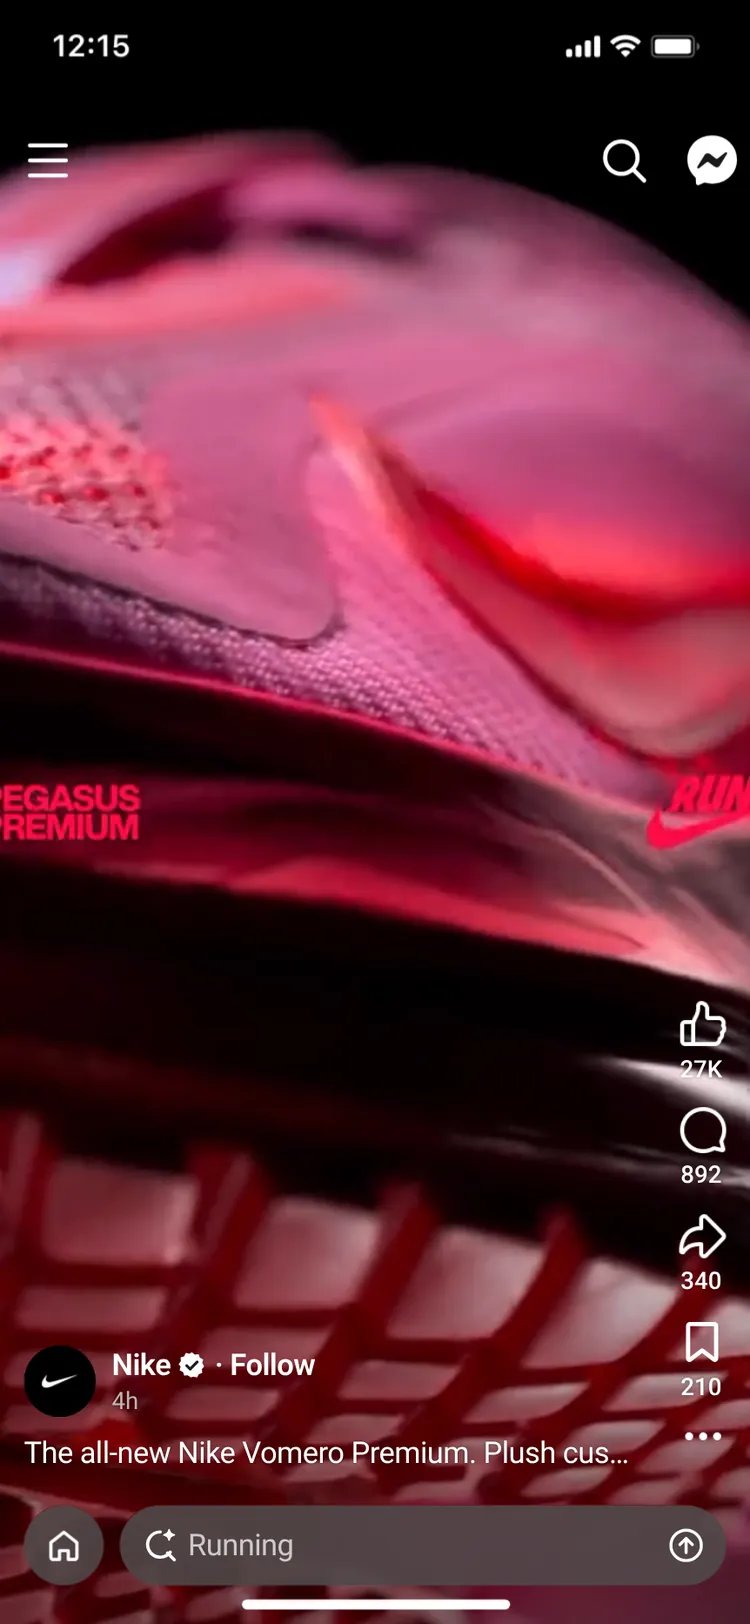
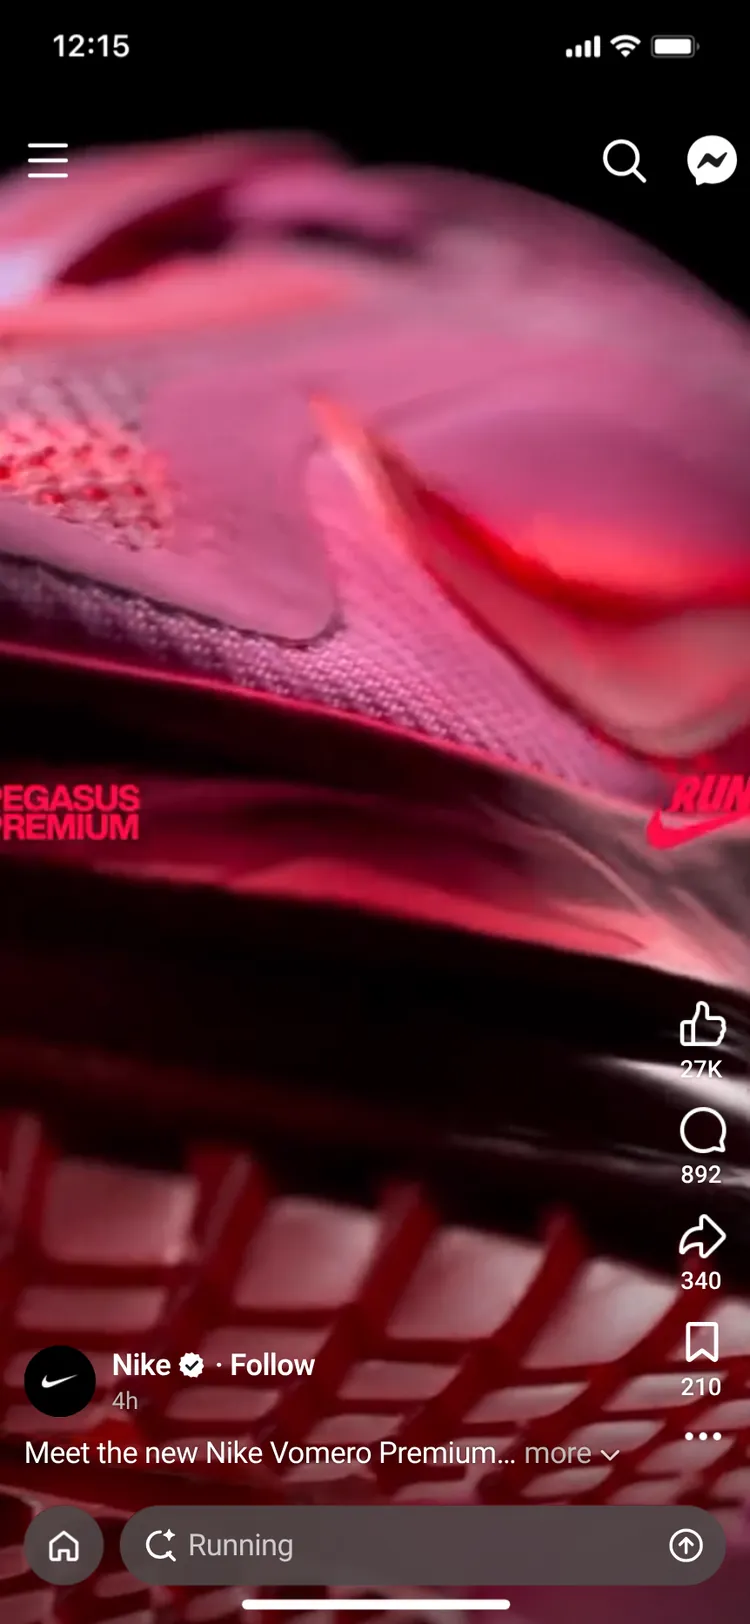
CC proto: Sponsored label, one commerce-card recipe, VAC caption on every reel (v238)
- Brand rows: 'Sponsored' under the name (was 'Ad'), as MAC/SAP since v230
- Commerce cards (reel 303x56, comments sheet 351x56): even 8pt inset, 40px square
  thumbnail with concentric r4, text at x60 / 8 right, 600 15/20 over 400 13/20,
  group centred on the 8pt grid; p margins reset (text sat low); sheet button 40 tall r4
- Laura thumbnail re-cropped from her video (face, scarf, coat) at 120px
- Seed and creator captions now use the shared VAC caption (caption.js/vac-caption.js):
  every caption ends '… more ⌄'; copy tuned so the arrow box ends 4.1-4.5pt inside the CTA edge
- Comments title margin reset; skeleton rows follow the 56 card; poster regenerated

Changed region(s): [[0.0307, 0.8621, 0.828, 0.9236]]

diff --git a/preview/cc-proto/index.html b/preview/cc-proto/index.html
@@ -65,8 +65,9 @@ video{display:block;object-fit:cover}
 .ufi>img,.ufi>svg{display:block;width:24px;height:24px;margin:0 auto 3px}
 /* the details: the shared layout (preview/shared/caption/caption.css .c-stack, as MAC and SAP), its bottom 16pt above the nav
    (--c-bottom 76: the CTA 692–736, the nav 752). Inside it, from the author row (612): avatar 36 + name ✓ · Follow (20px line) and
-   "Ad" under the name (the shared .c-sp line: 12/16, white 70%; never "Sponsored", no Ad pill), the VAC caption at +48 (660, "… more ⌄",
-   js/vac-caption.js), the CTA at +80 (303×44, r12). Creator posts: "· Following" and the post's age under the name, the caption, and the
+   "Sponsored" under the name (the shared .c-sp line: 12/16, white 70%, as MAC and SAP since v230; no Ad pill), the VAC caption at +48
+   (660; every caption, the Nike seed's and the creator posts' too: cut on whole glyphs, "… more ⌄", the arrow ending ≤ x 311, 4pt inside
+   the CTA's right edge: js/vac-caption.js via caption.js), the CTA at +80 (303×44, r12). Creator posts: "· Following" and the post's age under the name, the caption, and the
    commerce card (56) at +80 (680–736). The Nike seed: name / 4h and its caption only (author 672, caption 716) */
 .phone .c-stack{--c-bottom:76px}
 .c-stack.cc-org{height:136px}
@@ -74,14 +75,16 @@ video{display:block;object-fit:cover}
 .c-stack>.cav{left:0;top:0;width:36px;height:36px;border-radius:50%;background:#fff 50% 50%/cover no-repeat}
 .c-stack>.cn{left:44px;top:0;display:flex;align-items:center;height:20px;white-space:nowrap;font:600 15px/20px var(--sf);letter-spacing:-.24px;color:#fff;text-shadow:0 0 1px rgba(0,0,0,.3);-webkit-font-smoothing:antialiased}
 .cn svg{flex:none;width:14px;height:14px;margin:0 4px}
-.c-stack>.ocap{left:0;top:48px;width:303px;font:400 15px/20px var(--sf);letter-spacing:-.24px;white-space:nowrap;overflow:hidden;text-shadow:0 0 1px rgba(0,0,0,.62);-webkit-font-smoothing:antialiased}
-.cc-seed>.ocap{top:44px;text-overflow:ellipsis}
-.ocap span{color:rgba(255,255,255,.8)}
+.c-stack.cc-seed>.c-cap{top:44px}
 .c-stack>.cta{left:0;top:80px;width:303px;height:44px;border-radius:12px;font:600 15px/44px var(--sf);letter-spacing:-.24px;text-align:center;color:#fff;overflow:hidden}
 .c-stack>.card{left:0;top:80px;width:303px;height:56px;border-radius:12px}
-.card .th{position:absolute;left:8px;top:8px;width:40px;height:40px;border-radius:8px;background:#333 50% 50%/cover no-repeat}
-.card .t{position:absolute;left:56px;top:8px;right:16px;font:600 15px/20px var(--sf);letter-spacing:-.24px;white-space:nowrap;overflow:hidden;text-overflow:ellipsis}
-.card .u{position:absolute;left:56px;top:28px;font:400 13px/20px var(--sf);letter-spacing:-.08px;color:rgba(255,255,255,.72);white-space:nowrap}
+/* the commerce cards (the reel's, 303×56, and the comments sheet's, 351×56): one recipe. An even 8pt inset on all four sides; the
+   thumbnail 40×40, square, its radius concentric with the card's (12 − 8 = 4, squircled by js/squircle.js); the text 12 after it (x 60)
+   and 8 from the right edge (ellipsis, never clipped mid-glyph); title 600 15/20 over the action line 400 13/20, a 40pt group centred in
+   the 56 (top 8, bottom 8: on the 8pt grid); a button inside a card shares the inset and the concentric radius (40 tall, r4) */
+.card .th,.pc .pth{position:absolute;left:8px;top:8px;width:40px;height:40px;border-radius:4px;background:#333 50% 50%/cover no-repeat}
+.card .t,.pc .pt{position:absolute;margin:0;left:60px;top:8px;right:8px;font:600 15px/20px var(--sf);letter-spacing:-.24px;white-space:nowrap;overflow:hidden;text-overflow:ellipsis}
+.card .u,.pc .pu{position:absolute;margin:0;left:60px;top:28px;right:8px;font:400 13px/20px var(--sf);letter-spacing:-.08px;color:rgba(255,255,255,.72);white-space:nowrap;overflow:hidden;text-overflow:ellipsis}
 /* the material: a 25px backdrop blur under #252525 at 55% with a #9C9C9C overlay (SAP's For you pill, Figma) */
 .mat{background:rgba(37,37,37,.55);-webkit-backdrop-filter:blur(25px);backdrop-filter:blur(25px);overflow:hidden;isolation:isolate}
 .mat::before{content:'';position:absolute;inset:0;background:#9c9c9c;mix-blend-mode:overlay;opacity:.55;border-radius:inherit;pointer-events:none}
@@ -116,14 +119,14 @@ video{display:block;object-fit:cover}
 .csheet>*,.store>*{position:absolute}
 .csheet,.store{pointer-events:none}   /* the touch layer under them takes every gesture (hit rects in s3) */
 .csheet .grab{left:169.5px;top:8px;width:36px;height:4px;border-radius:2px;background:#ccd0d5}
-.csheet .ttl{left:0;top:20px;width:375px;text-align:center;font:600 17px/22px var(--sf)}
+.csheet .ttl{margin:0;left:0;top:20px;width:375px;text-align:center;font:600 17px/22px var(--sf)}
 .csheet .ttl span{color:#65676b;font-weight:400}
-.csheet .pc{left:12px;top:56px;width:351px;height:64px;border-radius:12px;background:#f0f2f5}
+.csheet .pc{left:12px;top:56px;width:351px;height:56px;border-radius:12px;background:#f0f2f5}
 .pc>*{position:absolute}
-.pc .pth{left:12px;top:12px;width:40px;height:40px;border-radius:8px;background:#fff 50% 50%/cover no-repeat}
-.pc .pt{left:64px;top:12px;font:600 15px/20px var(--sf)}
-.pc .pu{left:64px;top:32px;font:400 13px/20px var(--sf);color:#65676b}
-.pc .pb{right:12px;top:14px;height:36px;padding:0 16px;border-radius:10px;background:#5f3d8f;color:#fff;font:600 15px/36px var(--sf)}
+.pc .pth{background-color:#000}
+.pc .pt,.pc .pu{right:128px}
+.pc .pu{color:#65676b}
+.pc .pb{right:8px;margin:0;top:8px;height:40px;padding:0 16px;border-radius:4px;background:#5f3d8f;color:#fff;font:600 15px/40px var(--sf);letter-spacing:-.24px}
 .sk{border-radius:6px;background:#f0f2f5}
 .sk.a{border-radius:18px;background:#e4e6eb}
 .sk.n{background:#e4e6eb}
@@ -217,19 +220,19 @@ function fit(){
 new ResizeObserver(fit).observe(frame);fit();
 
 /* ---------- the reels (copy and metrics: the approved CC mock, /workspace/cc/mock; Figma XYE8LCJVe0rHhnEB5DA18A, flow 140796:4871) ----------
-   kind: seed (the Nike reel the chain starts from) · ad (avatar, name ✓ · Follow, "Ad", caption, CTA) · org (a creator post: · Following,
+   kind: seed (the Nike reel the chain starts from) · ad (avatar, name ✓ · Follow, "Sponsored", caption, CTA) · org (a creator post: · Following,
    its age, caption, commerce card). pill: the bottom bar's query for that reel (Nespresso's is the entry: "Explore more like this") */
 const R={
-  nike:{kind:'seed',name:'Nike',sub:'4h',cap:'The all-new Nike Vomero Premium. Plush cushioning for every mile.',pill:'Running',ufi:['27K','892','340','210']},
-  nesp:{kind:'ad',name:'Nespresso',cap:'Sip your way through spring with our indulgent iced coffee recipes.',cta:'#5f3d8f',pill:'Explore more like this',icon:'explore',ufi:['1.3K','1.5K','107','86']},
-  bb:{kind:'ad',name:'Blue Bottle Coffee',cap:'Ceremonial-grade craft matcha, only from Blue Bottle.',cta:'#1f6cb0',pill:'Matcha Latte',ufi:['2.4K','312','96','140']},
-  sbux:{kind:'ad',name:'Starbucks',cap:'Your new summer drink just dropped. Order ahead in the app.',cta:'#00573f',ctaText:'Order now',pill:'Summer drinks',ufi:['8.9K','1.1K','402','615']},
-  lc:{kind:'ad',name:'La Colombe Coffee',cap:'Because draft is always the right choice. Meet the Strawberry Mocha Draft Latte.',cta:'#d9475f',pill:'Iced coffee',ufi:['1.8K','204','77','131']},
-  cb2:{kind:'ad',name:'CB2',cap:'Watch your home collection unfold in every room.',cta:'#b5552a',pill:'Furniture',ufi:['964','58','31','112']},
-  univ:{kind:'org',name:'Universal Studios',ago:'5 hours ago',cap:'Join Mario on a cosmic adventure!',ct:'The Super Mario Galaxy Movie',cu:'View Storefront',store:1,pill:'Mario & Luigi',ufi:['41K','2.3K','5.6K','3.1K']},
-  laura:{kind:'org',name:'Laura Byrnes',ago:'6 hours ago',cap:'When I don’t know what to wear....',ct:'Quiet Luxury Cashmere',cu:'Shop this look',pill:'Fit check',ufi:['12K','486','210','1.9K']},
-  serena:{kind:'org',name:'xzmserena',ago:'3 hours ago',cap:'Discover your next beauty must-haves!',ct:'Minimalist Makeup',cu:'Shop this look',pill:'Makeup tutorial',ufi:['7.2K','318','95','1.2K']},
-  aden:{kind:'org',name:'Aden Wang',ago:'2 hours ago',cap:'Look who I’m featuring in my prototype.....',ct:'Aden’s Tidy Home',cu:'View Storefront',pill:'Studio Display XDR',ufi:['3.4K','129','44','508']}};
+  nike:{kind:'seed',name:'Nike',sub:'4h',cap:'Meet the new Nike Vomero Premium, with plush cushioning for every mile.',pill:'Running',ufi:['27K','892','340','210']},
+  nesp:{kind:'ad',name:'Nespresso',cap:'Sip through spring with our indulgent iced coffee recipes.',cta:'#5f3d8f',pill:'Explore more like this',icon:'explore',ufi:['1.3K','1.5K','107','86']},
+  bb:{kind:'ad',name:'Blue Bottle Coffee',cap:'Ceremonial-grade craft matcha, whisked to order at Blue Bottle.',cta:'#1f6cb0',pill:'Matcha Latte',ufi:['2.4K','312','96','140']},
+  sbux:{kind:'ad',name:'Starbucks',cap:'This summer\u2019s new drink just dropped. Order ahead in the Starbucks app.',cta:'#00573f',ctaText:'Order now',pill:'Summer drinks',ufi:['8.9K','1.1K','402','615']},
+  lc:{kind:'ad',name:'La Colombe Coffee',cap:'Because a draft is always the right move. Meet the Strawberry Mocha Draft Latte.',cta:'#d9475f',pill:'Iced coffee',ufi:['1.8K','204','77','131']},
+  cb2:{kind:'ad',name:'CB2',cap:'See the new home collection unfold in every room.',cta:'#b5552a',pill:'Furniture',ufi:['964','58','31','112']},
+  univ:{kind:'org',name:'Universal Studios',ago:'5 hours ago',cap:'Join Mario on an epic cosmic adventure, now playing in theaters.',ct:'The Super Mario Galaxy Movie',cu:'View Storefront',store:1,pill:'Mario & Luigi',ufi:['41K','2.3K','5.6K','3.1K']},
+  laura:{kind:'org',name:'Laura Byrnes',ago:'6 hours ago',cap:'When I don\u2019t know what to wear, I fall back on a camel cashmere coat.',ct:'Quiet Luxury Cashmere',cu:'Shop this look',pill:'Fit check',ufi:['12K','486','210','1.9K']},
+  serena:{kind:'org',name:'xzmserena',ago:'3 hours ago',cap:'Discover your next beauty must-haves for a fresh, minimal look.',ct:'Minimalist Makeup',cu:'Shop this look',pill:'Makeup tutorial',ufi:['7.2K','318','95','1.2K']},
+  aden:{kind:'org',name:'Aden Wang',ago:'2 hours ago',cap:'Guess who I\u2019m featuring in my prototype! Tidy desk, happy aloe.',ct:'Aden’s Tidy Home',cu:'View Storefront',pill:'Studio Display XDR',ufi:['3.4K','129','44','508']}};
 const TABS=['Coffee','Home','Movie','Fashion','Beauty','Tech'],CATS=[['bb','sbux','lc'],['cb2'],['univ'],['laura'],['serena'],['aden']];
 const FIRST=[0,0,1,2,2,2];   // the tab row's scroll per category: the first tab showing after the chevron (Coffee/Home 0, Movie 1, the rest 2)
 const ICO={
@@ -247,9 +250,9 @@ function page(id){
   d.ufi.forEach((n,i)=>{h+=`<div class="ufi" style="top:${499+i*53}px">${ic[i]}${esc(n)}</div>`});
   h+=`<div class="ufi" style="top:705px"><img alt="" src="assets/u-dots.webp${V}"></div>`;
   const row=(f,sub)=>`<i class="cav" style="background-image:url(assets/av-${id}.webp${V})"></i><p class="cn">${esc(d.name)}${BADGE}${f}</p><p class="c-sp">${esc(sub)}</p>`;
-  if(d.kind==='ad')h+=`<div class="c-stack">${row('· Follow','Ad')}<p class="c-cap">${esc(d.cap)}</p><div class="cta" style="background:${d.cta}">${esc(d.ctaText||'Learn more')}<i class="press"></i></div></div>`;
-  else if(d.kind==='org')h+=`<div class="c-stack cc-org">${row('· Following',d.ago)}<p class="ocap">${esc(d.cap)} <span>more</span></p><div class="card mat"><i class="th" style="background-image:url(assets/th-${id}.webp${V})"></i><p class="t">${esc(d.ct)}</p><p class="u">${esc(d.cu)}</p><i class="press"></i></div></div>`;
-  else h+=`<div class="c-stack cc-seed">${row('· Follow',d.sub)}<p class="ocap">${esc(d.cap)}</p></div>`;
+  if(d.kind==='ad')h+=`<div class="c-stack">${row('· Follow','Sponsored')}<p class="c-cap">${esc(d.cap)}</p><div class="cta" style="background:${d.cta}">${esc(d.ctaText||'Learn more')}<i class="press"></i></div></div>`;
+  else if(d.kind==='org')h+=`<div class="c-stack cc-org">${row('· Following',d.ago)}<p class="c-cap">${esc(d.cap)}</p><div class="card mat"><i class="th" style="background-image:url(assets/th-${id}.webp${V})"></i><p class="t">${esc(d.ct)}</p><p class="u">${esc(d.cu)}</p><i class="press"></i></div></div>`;
+  else h+=`<div class="c-stack cc-seed">${row('· Follow',d.sub)}<p class="c-cap">${esc(d.cap)}</p></div>`;
   p.innerHTML=h;return p}
 const PG={},VID={};
 ['nike','nesp'].forEach(id=>{const p=page(id);$('feed').appendChild(p);PG[id]=p});
@@ -259,7 +262,7 @@ $('ribbon').innerHTML=TABS.map(t=>`<span class="tab">${t}</span>`).join('');
 const TABEL=[...$('ribbon').children];
 /* comments: the dim, the sheet, the ad's product card, placeholder rows */
 (function(){let h='<i class="grab"></i><p class="ttl">Comments <span>20</span></p><div class="pc"><i class="pth" style="background-image:url(assets/av-nesp.webp'+V+')"></i><p class="pt">Firenze Arpeggio</p><p class="pu">nespresso.com</p><p class="pb">Learn more</p></div>';
-  for(let i=0;i<6;i++){const y=140+i*64;h+=`<i class="sk a" style="left:12px;top:${y}px;width:36px;height:36px"></i><i class="sk n" style="left:56px;top:${y+2}px;width:${90+((i*37)%60)}px;height:12px"></i><i class="sk" style="left:56px;top:${y+20}px;width:${180+((i*53)%110)}px;height:12px"></i>`}
+  for(let i=0;i<6;i++){const y=136+i*64;h+=`<i class="sk a" style="left:12px;top:${y}px;width:36px;height:36px"></i><i class="sk n" style="left:56px;top:${y+2}px;width:${90+((i*37)%60)}px;height:12px"></i><i class="sk" style="left:56px;top:${y+20}px;width:${180+((i*53)%110)}px;height:12px"></i>`}
   $('csheet').innerHTML=h})();
 /* the storefront: Universal's "View Storefront" (Figma 07b): the product slots are placeholders, as in Figma */
 (function(){const IMG='<svg viewBox="0 0 24 24" fill="none"><rect x="3" y="4" width="18" height="16" rx="3" stroke="#bcc0c4" stroke-width="1.6"/><circle cx="9" cy="9.5" r="1.8" fill="#bcc0c4"/><path d="m4 18 5-5 3.5 3.5L15 14l5 4.5" stroke="#bcc0c4" stroke-width="1.6" stroke-linejoin="round"/></svg>';
